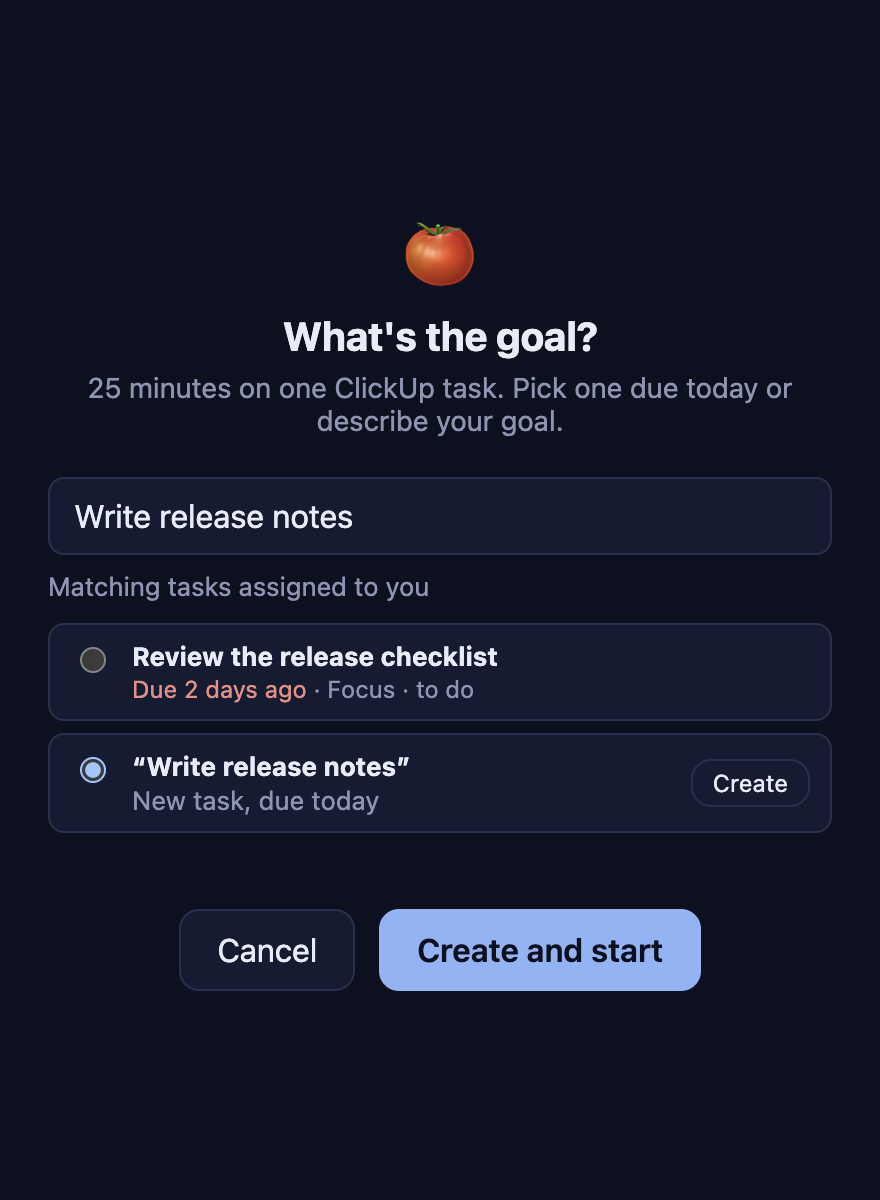
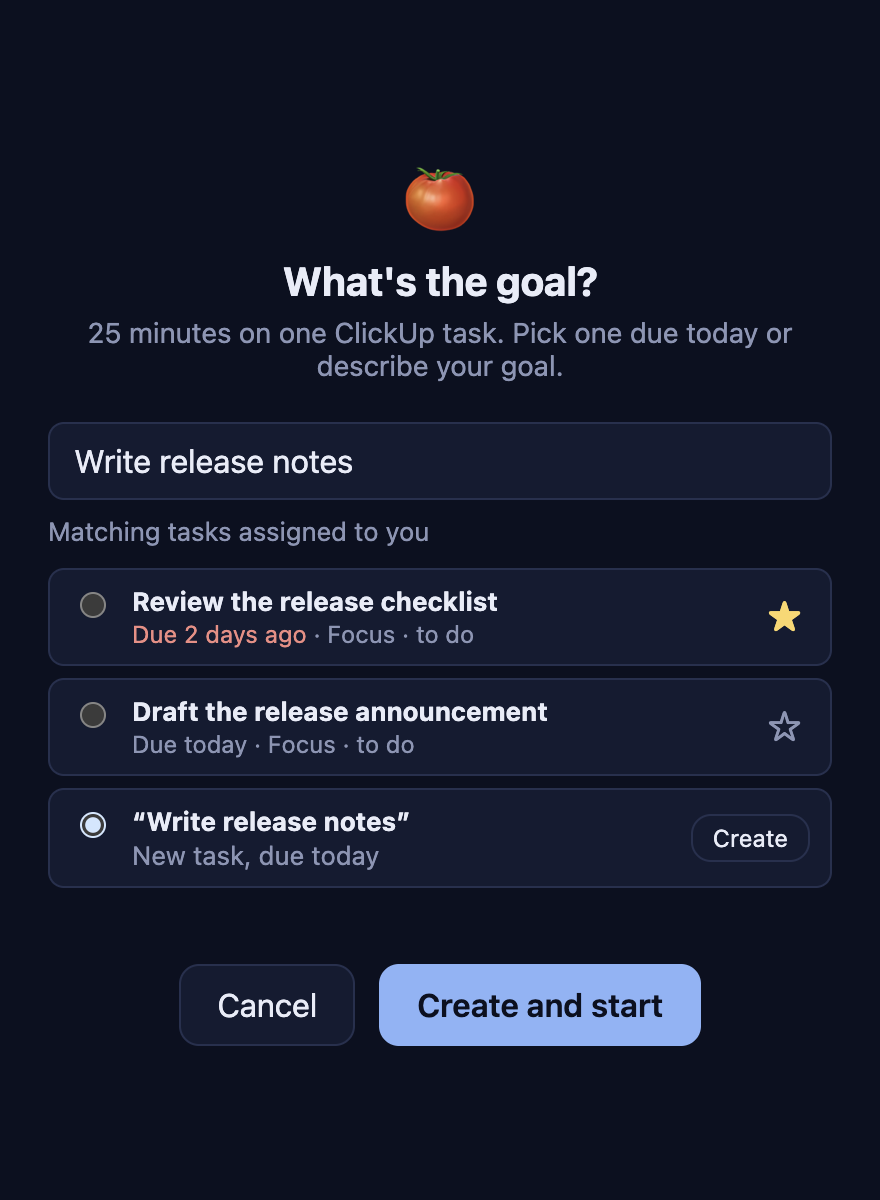
feat: star pomodoro tasks as high priority and list by priority
A star on each task in the pomodoro picker sets ClickUp priority to high
or clears it. Urgent and high tasks show a filled star. Shown tasks are
sorted by priority after the usual match or due-date selection.

Version 1.2.0.

diff --git a/test/clickup.test.js b/test/clickup.test.js
@@ -7,6 +7,7 @@ const {
   isValidToken,
   isOpenTask,
   closingStatus,
+  isStarred,
   parseTeamId,
   parseListId,
   words,
@@ -21,7 +22,15 @@ const {
   createClient,
 } = require('../src/clickup');
 
-const task = (id, name, due = null) => ({ id, name, url: `https://app.clickup.com/t/${id}`, list: 'Inbox', status: 'to do', due });
+const task = (id, name, due = null, priority = null) => ({
+  id,
+  name,
+  url: `https://app.clickup.com/t/${id}`,
+  list: 'Inbox',
+  status: 'to do',
+  due,
+  priority,
+});
 
 const ids = { token: 'pk_token', teamId: '111', listId: '222' };
 const now = new Date(2026, 9, 21, 17, 30);
@@ -75,6 +84,26 @@ test('matchTasks breaks ties by due date', () => {
   assert.deepEqual(matchTasks('login', tasks).map(({ id }) => id), ['3', '1', '2']);
 });
 
+test('matchTasks shows high priority first among the best matches', () => {
+  const tasks = [
+    task('1', 'Fix login bug'),
+    task('2', 'Login page', null, 4),
+    task('3', 'Login copy', null, 2),
+    ...Array.from({ length: 5 }, (_, i) => task(`u${i}`, 'Login urgent', null, 1)),
+  ];
+  assert.deepEqual(matchTasks('fix login bug', tasks.slice(0, 3)).map(({ id }) => id), ['3', '2', '1']);
+  assert.ok(matchTasks('fix login bug', tasks).some(({ id }) => id === '1'));
+});
+
+test('dueTasks sorts by priority after keeping the earliest due', () => {
+  const tasks = [task('a', 'A', day(-3)), task('b', 'B', day(0), 1), task('c', 'C', day(-1), 3)];
+  assert.deepEqual(dueTasks(tasks, now).map(({ id }) => id), ['b', 'c', 'a']);
+});
+
+test('isStarred means urgent or high priority', () => {
+  assert.deepEqual([1, 2, 3, 4, null, undefined].map((priority) => isStarred({ priority })), [true, true, false, false, false, false]);
+});
+
 test('dueTasks keeps overdue and today, earliest first', () => {
   const tasks = [
     task('today', 'A', day(0, 23)),
@@ -106,7 +135,10 @@ test('toListItem adds the due label and flags overdue tasks only', () => {
     status: 'to do',
     dueLabel: 'Due 2 days ago',
     overdue: true,
+    priority: null,
+    starred: false,
   });
+  assert.equal(toListItem(task('1', 'A', null, 2), now).starred, true);
   assert.equal(toListItem(task('1', 'A', day(0, 9)), now).overdue, false);
   assert.deepEqual([toListItem(task('1', 'A'), now).dueLabel, toListItem(task('1', 'A'), now).overdue], ['', false]);
 });
@@ -152,8 +184,8 @@ test('searchTasks looks up me once and pages through my tasks', async () => {
   const client = createClient(ids, fetchImpl);
   const found = await client.searchTasks('login');
   assert.deepEqual(found, [
-    { id: '1', name: 'Fix login bug', url: 'u1', list: 'Web', status: '', due: null },
-    { id: '2', name: 'Login copy', url: 'u2', list: '', status: '', due: null },
+    { id: '1', name: 'Fix login bug', url: 'u1', list: 'Web', status: '', due: null, priority: null },
+    { id: '2', name: 'Login copy', url: 'u2', list: '', status: '', due: null, priority: null },
   ]);
   await client.searchTasks('login');
   assert.equal(calls.filter(({ url }) => url.endsWith('/user')).length, 1);
@@ -215,6 +247,23 @@ test('createTask posts to the pomodoro list', async () => {
   const post = calls.find(({ options }) => options.method === 'POST');
   assert.ok(post.url.endsWith('/list/222/task'));
   assert.deepEqual(JSON.parse(post.options.body).assignees, [7]);
+});
+
+test('toTask reads the priority id', async () => {
+  const { fetchImpl } = fakeFetch([
+    [/\/user$/, () => ({ user: { id: 7 } })],
+    [/\/team\//, () => ({ tasks: [{ id: 'a', name: 'Report', priority: { id: '2', priority: 'high' } }, { id: 'b', name: 'Report', priority: null }] })],
+  ]);
+  const found = await createClient(ids, fetchImpl).searchTasks('report');
+  assert.deepEqual(found.map(({ id, priority }) => [id, priority]), [['a', 2], ['b', null]]);
+});
+
+test('setStarred sets high priority or clears it', async () => {
+  const { calls, fetchImpl } = fakeFetch([[/\/task\/abc$/, () => ({})]]);
+  const client = createClient(ids, fetchImpl);
+  assert.equal(await client.setStarred('abc', true), 2);
+  assert.equal(await client.setStarred('abc', false), null);
+  assert.deepEqual(calls.map(({ options }) => [options.method, JSON.parse(options.body)]), [['PUT', { priority: 2 }], ['PUT', { priority: null }]]);
 });
 
 test('closingStatus prefers the closed status, then a done one', () => {

diff --git a/src/clickup.js b/src/clickup.js
@@ -6,6 +6,10 @@ const DAY_MS = 24 * 60 * 60 * 1000;
 const REQUEST_TIMEOUT_MS = 10000;
 const TASKS_TTL_MS = 60 * 1000;
 
+// ClickUp priority ids: 1 urgent, 2 high, 3 normal, 4 low. A star means urgent or high.
+const HIGH_PRIORITY = 2;
+const NO_PRIORITY = 5;
+
 const STOP_WORDS = ['the', 'and', 'for', 'with', 'from', 'into', 'about'];
 
 const isValidToken = (token) => /^pk_[A-Za-z0-9_]+$/.test(token);
@@ -47,6 +51,7 @@ const toTask = (raw) => ({
   list: raw.list?.name ?? '',
   status: raw.status?.status ?? '',
   due: raw.due_date ? Number(raw.due_date) : null,
+  priority: Number(raw.priority?.id) || null,
 });
 
 const startOfDay = (date, offsetDays = 0) =>
@@ -54,11 +59,16 @@ const startOfDay = (date, offsetDays = 0) =>
 
 const byDue = (a, b) => (a.due ?? Infinity) - (b.due ?? Infinity);
 
+const isStarred = (task) => (task.priority ?? NO_PRIORITY) <= HIGH_PRIORITY;
+
+const byPriority = (a, b) => (a.priority ?? NO_PRIORITY) - (b.priority ?? NO_PRIORITY);
+
 const dueTasks = (tasks, now) =>
   tasks
     .filter((task) => task.due !== null && task.due < startOfDay(now, 1))
     .sort(byDue)
-    .slice(0, MAX_DUE);
+    .slice(0, MAX_DUE)
+    .sort(byPriority);
 
 const RELATIVE = new Intl.RelativeTimeFormat('en', { numeric: 'auto' });
 
@@ -70,13 +80,15 @@ const relativeDue = (due, now) => {
   return `Due ${RELATIVE.format(Math.round(days / 30), 'month')}`;
 };
 
-const toListItem = ({ id, name, list, status, due }, now) => ({
+const toListItem = ({ id, name, list, status, due, priority }, now) => ({
   id,
   name,
   list,
   status,
   dueLabel: due === null ? '' : relativeDue(due, now),
   overdue: due !== null && due < startOfDay(now),
+  priority: priority ?? null,
+  starred: isStarred({ priority }),
 });
 
 const matchTasks = (query, tasks) => {
@@ -89,7 +101,8 @@ const matchTasks = (query, tasks) => {
     .filter(({ score }) => score > 0)
     .sort((a, b) => b.score - a.score || byDue(a.task, b.task))
     .slice(0, MAX_MATCHES)
-    .map(({ task }) => task);
+    .map(({ task }) => task)
+    .sort(byPriority);
 };
 
 const assignedTasksPath = (teamId, userId, page, filter = 'order_by=updated') =>
@@ -157,6 +170,13 @@ const createClient = ({ token, teamId, listId }, fetchImpl = fetch, clock = Date
       cache.clear();
       return task;
     },
+    setStarred: async (taskId, starred) => {
+      // null clears the priority, so unstarring an urgent task leaves it with none.
+      const priority = starred ? HIGH_PRIORITY : null;
+      await request(`/task/${encodeURIComponent(taskId)}`, { method: 'PUT', body: JSON.stringify({ priority }) });
+      cache.clear();
+      return priority;
+    },
     completeTask: async (taskId) => {
       const task = await request(`/task/${encodeURIComponent(taskId)}`);
       const status = closingStatus((await request(`/list/${encodeURIComponent(task.list?.id)}`)).statuses);
@@ -174,6 +194,8 @@ module.exports = {
   isValidToken,
   isOpenTask,
   closingStatus,
+  isStarred,
+  byPriority,
   parseTeamId,
   parseListId,
   words,

diff --git a/src/renderer/pomodoro.js b/src/renderer/pomodoro.js
@@ -34,6 +34,21 @@ const option = (value, title, detail, checked, action) => {
   return label;
 };
 
+const NO_PRIORITY = 5;
+const byPriority = (a, b) => (a.priority ?? NO_PRIORITY) - (b.priority ?? NO_PRIORITY);
+
+const starButton = (task) => {
+  const button = Object.assign(document.createElement('button'), {
+    type: 'button',
+    className: task.starred ? 'star starred' : 'star',
+    textContent: task.starred ? '★\uFE0E' : '☆\uFE0E',
+    title: task.starred ? 'Remove high priority' : 'Mark high priority',
+  });
+  button.setAttribute('aria-pressed', String(task.starred));
+  button.addEventListener('click', () => toggleStar(button, task));
+  return button;
+};
+
 const createButton = () => {
   const button = Object.assign(document.createElement('button'), { type: 'button', className: 'create', textContent: 'Create' });
   button.addEventListener('click', createOnly);
@@ -58,7 +73,7 @@ const renderTasks = (tasks, preferred = selected()) => {
   const fallback = tasks[0]?.id ?? (offerNew ? NEW_TASK : null);
   const keep = tasks.some((task) => task.id === preferred) || (offerNew && preferred === NEW_TASK) ? preferred : fallback;
   $('tasks').replaceChildren(
-    ...tasks.map((task) => option(task.id, task.name, details(task), task.id === keep)),
+    ...tasks.map((task) => option(task.id, task.name, details(task), task.id === keep, starButton(task))),
     ...(offerNew ? [option(NEW_TASK, `“${goal}”`, span('muted', 'New task, due today'), keep === NEW_TASK, createButton())] : []),
   );
   updateStartLabel();
@@ -120,6 +135,19 @@ const createOnly = async (event) => {
   shownTasks = [result.task, ...shownTasks];
   renderTasks(shownTasks, result.task.id);
   $('search-status').textContent = 'Task created in ClickUp';
+};
+
+const toggleStar = async (button, task) => {
+  button.disabled = true;
+  $('error').textContent = '';
+  const result = await window.focusLock.starTask(task.id, !task.starred);
+  button.disabled = false;
+  if (!result.ok) {
+    $('error').textContent = result.error;
+    return;
+  }
+  shownTasks = shownTasks.map((shown) => (shown.id === result.task.id ? result.task : shown)).sort(byPriority);
+  renderTasks(shownTasks);
 };
 
 const start = async () => {

diff --git a/src/main.js b/src/main.js
@@ -934,6 +934,19 @@ const registerIpc = () => {
     return { ok: created.ok, error: created.error };
   });
 
+  ipcMain.handle('pomodoro:star', async (event, taskId, starred) => {
+    if (!isPomodoroSender(event) || !clickupReady()) return { ok: false, error: CLICKUP_SETUP_ERROR };
+    const task = pomodoroMatches.get(taskId);
+    if (!task) return { ok: false, error: 'Pick a task from the list.' };
+    try {
+      const priority = await clickupFor(config).setStarred(task.id, Boolean(starred));
+      pomodoroMatches.set(task.id, { ...task, priority });
+      return { ok: true, task: clickup.toListItem({ ...task, priority }, new Date()) };
+    } catch {
+      return { ok: false, error: 'Could not change the priority in ClickUp. Try again.' };
+    }
+  });
+
   ipcMain.handle('pomodoro:create', async (event, name) => {
     if (!isPomodoroSender(event) || !clickupReady()) return { ok: false, error: CLICKUP_SETUP_ERROR };
     const created = await createPomodoroTask(name);

diff --git a/src/renderer/styles.css b/src/renderer/styles.css
@@ -173,6 +173,8 @@ textarea:focus { outline: 2px solid var(--accent); outline-offset: 1px; }
 .task > span { flex: 1; display: flex; flex-direction: column; gap: 2px; font-size: 13px; }
 .task small { font-size: 12px; }
 .task .create { align-self: center; padding: 4px 10px; font-size: 12px; }
+.task .star { align-self: center; padding: 0 4px; border: none; background: none; color: var(--muted); font-size: 18px; line-height: 1; }
+.task .star.starred { color: var(--warn); }
 .task .due { color: var(--muted); }
 .task .due.overdue { color: var(--danger); }
 .pomodoro .moon { font-size: 36px; }

diff --git a/src/preload.js b/src/preload.js
@@ -18,6 +18,7 @@ contextBridge.exposeInMainWorld('focusLock', {
   searchTasks: (goal) => ipcRenderer.invoke('pomodoro:search', goal),
   startPomodoro: (choice) => ipcRenderer.invoke('pomodoro:start', choice),
   createTask: (name) => ipcRenderer.invoke('pomodoro:create', name),
+  starTask: (taskId, starred) => ipcRenderer.invoke('pomodoro:star', taskId, starred),
   timerStatus: () => ipcRenderer.invoke('timer:status'),
   openTimerTask: () => ipcRenderer.invoke('timer:open-task'),
   completeTimerTask: () => ipcRenderer.invoke('timer:complete-task'),

diff --git a/AGENTS.md b/AGENTS.md
@@ -128,7 +128,7 @@ npm run dist     # unsigned macOS .dmg in dist/ (CSC_IDENTITY_AUTO_DISCOVERY=fal
   ClickUp tasks assigned to the token's user (done and closed ones dropped by `isOpenTask`) in `config.clickupTeamId` that share a word with it; `createClient` reuses the assigned-task
   list for `TASKS_TTL_MS`. `pomodoro:start` takes a `taskId` from any search shown in the window (`pomodoroMatches`, a
   Map in main, since searches can resolve out of order) or `create`s a task in `config.clickupListId` (no defaults; `clickupReady` needs a token and workspace), assigned to the user
-  and due today. Typing clears the previous results at once and shows a new-task tile for the goal (hidden when a listed task has that exact name); its **Create** button calls `pomodoro:create`, which creates the task without starting and adds it to `pomodoroMatches`. The main button reads **Create and start** while the new-task tile is selected, otherwise **Start**. 25 minutes focus
+  and due today. Typing clears the previous results at once and shows a new-task tile for the goal (hidden when a listed task has that exact name); its **Create** button calls `pomodoro:create`, which creates the task without starting and adds it to `pomodoroMatches`. The main button reads **Create and start** while the new-task tile is selected, otherwise **Start**. Each listed task has a star: `pomodoro:star` calls `setStarred` (priority 2, high, or `null` to clear); a star means ClickUp priority urgent or high (`isStarred`). `matchTasks` and `dueTasks` pick tasks as before, then sort them by priority (`byPriority`); the renderer re-sorts after a toggle. 25 minutes focus
   then 5 minutes break (`advancePomodoro` in the tick loop), counted down in the tray title. It can't start during a
   mode, and session offers are suppressed while focusing. Starting shows `renderer/timer.html`, a frameless,
   always-on-top window in the primary display's top-right corner, shown with `showInactive` so it never takes focus;

diff --git a/README.md b/README.md
@@ -50,7 +50,8 @@ works. End it early from the menu bar (it still counts as today's use).
 
 **Start Pomodoro…** in the menu bar opens on your ClickUp tasks due today and overdue. Pick one, or type a goal: Focus
 searches the tasks assigned to you as you type and offers a new one (assigned to you, due today): **Create** just adds
-it to ClickUp, **Create and start** also starts the pomodoro. You get 25 minutes of focus, then a 5-minute break. A
+it to ClickUp, **Create and start** also starts the pomodoro. The star on a task sets or clears its high priority in
+ClickUp, and tasks are listed by priority. You get 25 minutes of focus, then a 5-minute break. A
 small always-on-top window shows the time left and, when it ends, a summary with **Mark task complete**.
 
 <img src="docs/screenshots/timer.png" alt="Pomodoro timer" width="300" />

diff --git a/CHANGELOG.md b/CHANGELOG.md
@@ -3,6 +3,13 @@
 All notable changes to this project are documented here. The format follows
 [Keep a Changelog](https://keepachangelog.com/en/1.1.0/), and versions follow [Semantic Versioning](https://semver.org).
 
+## [1.2.0] - 2026-10-22
+
+### Added
+
+- Pomodoro: a star on each task marks it high priority in ClickUp, or clears its priority. Starred (urgent or high)
+  tasks are listed first.
+
 ## [1.1.1] - 2026-10-22
 
 ### Changed
